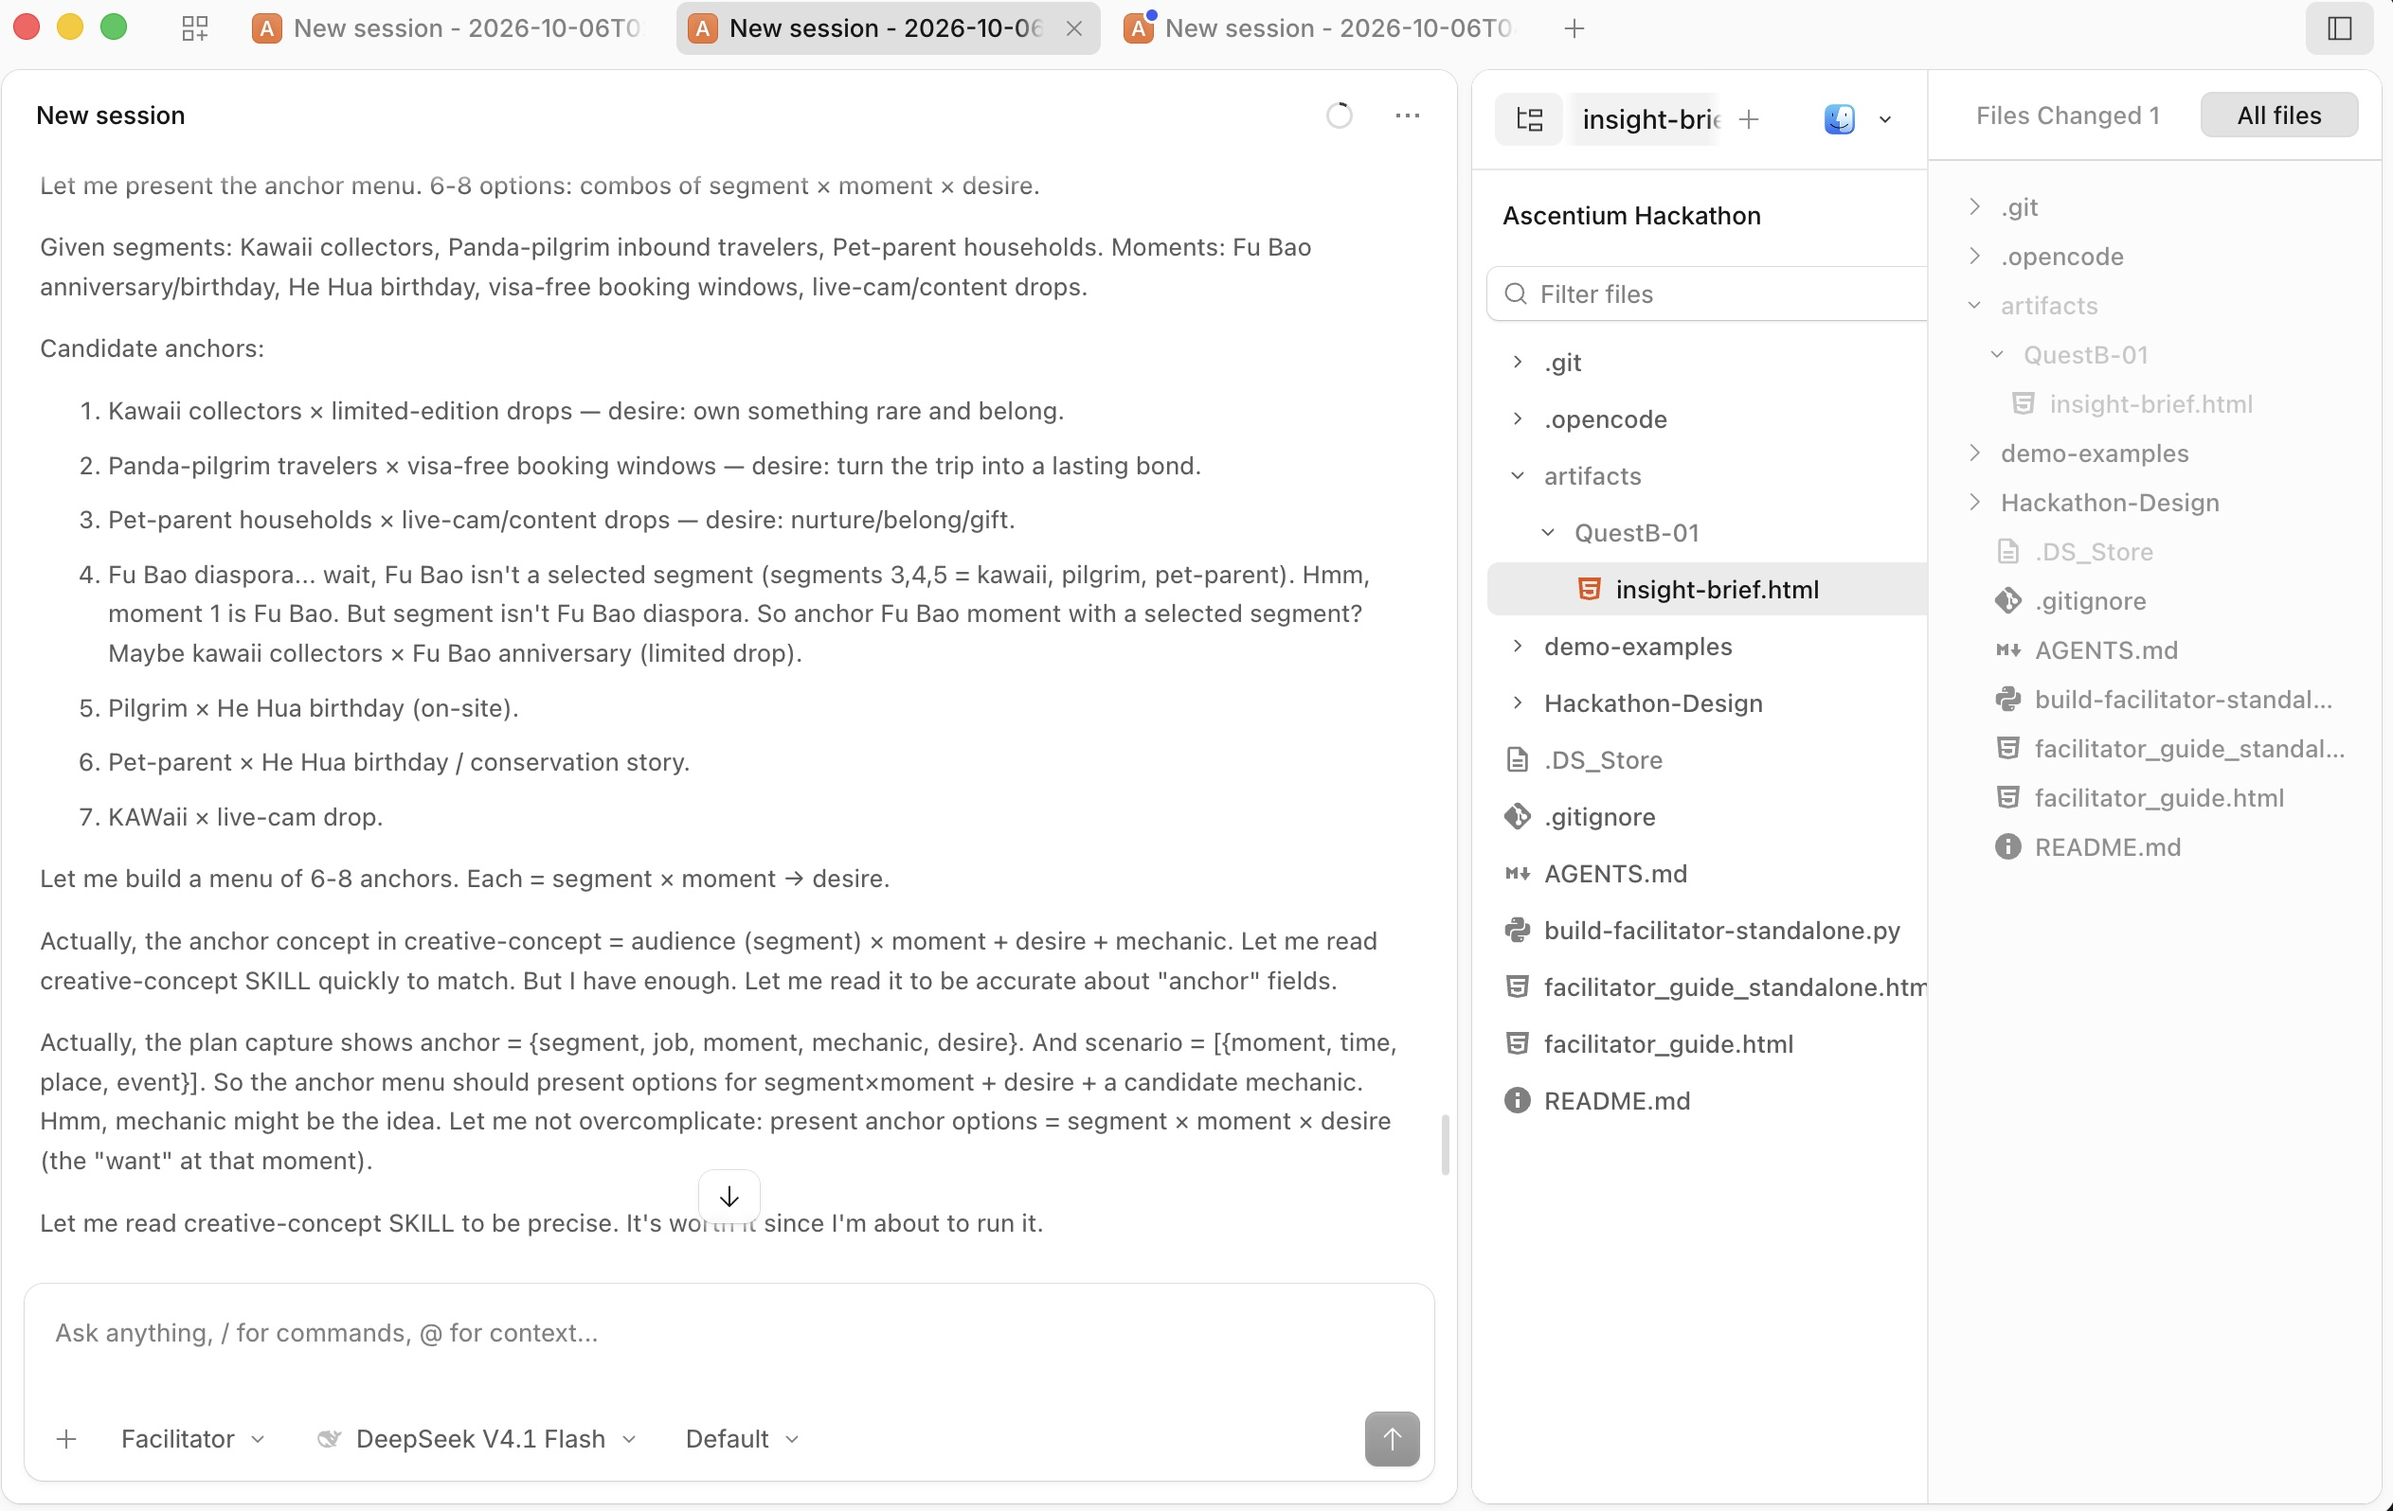
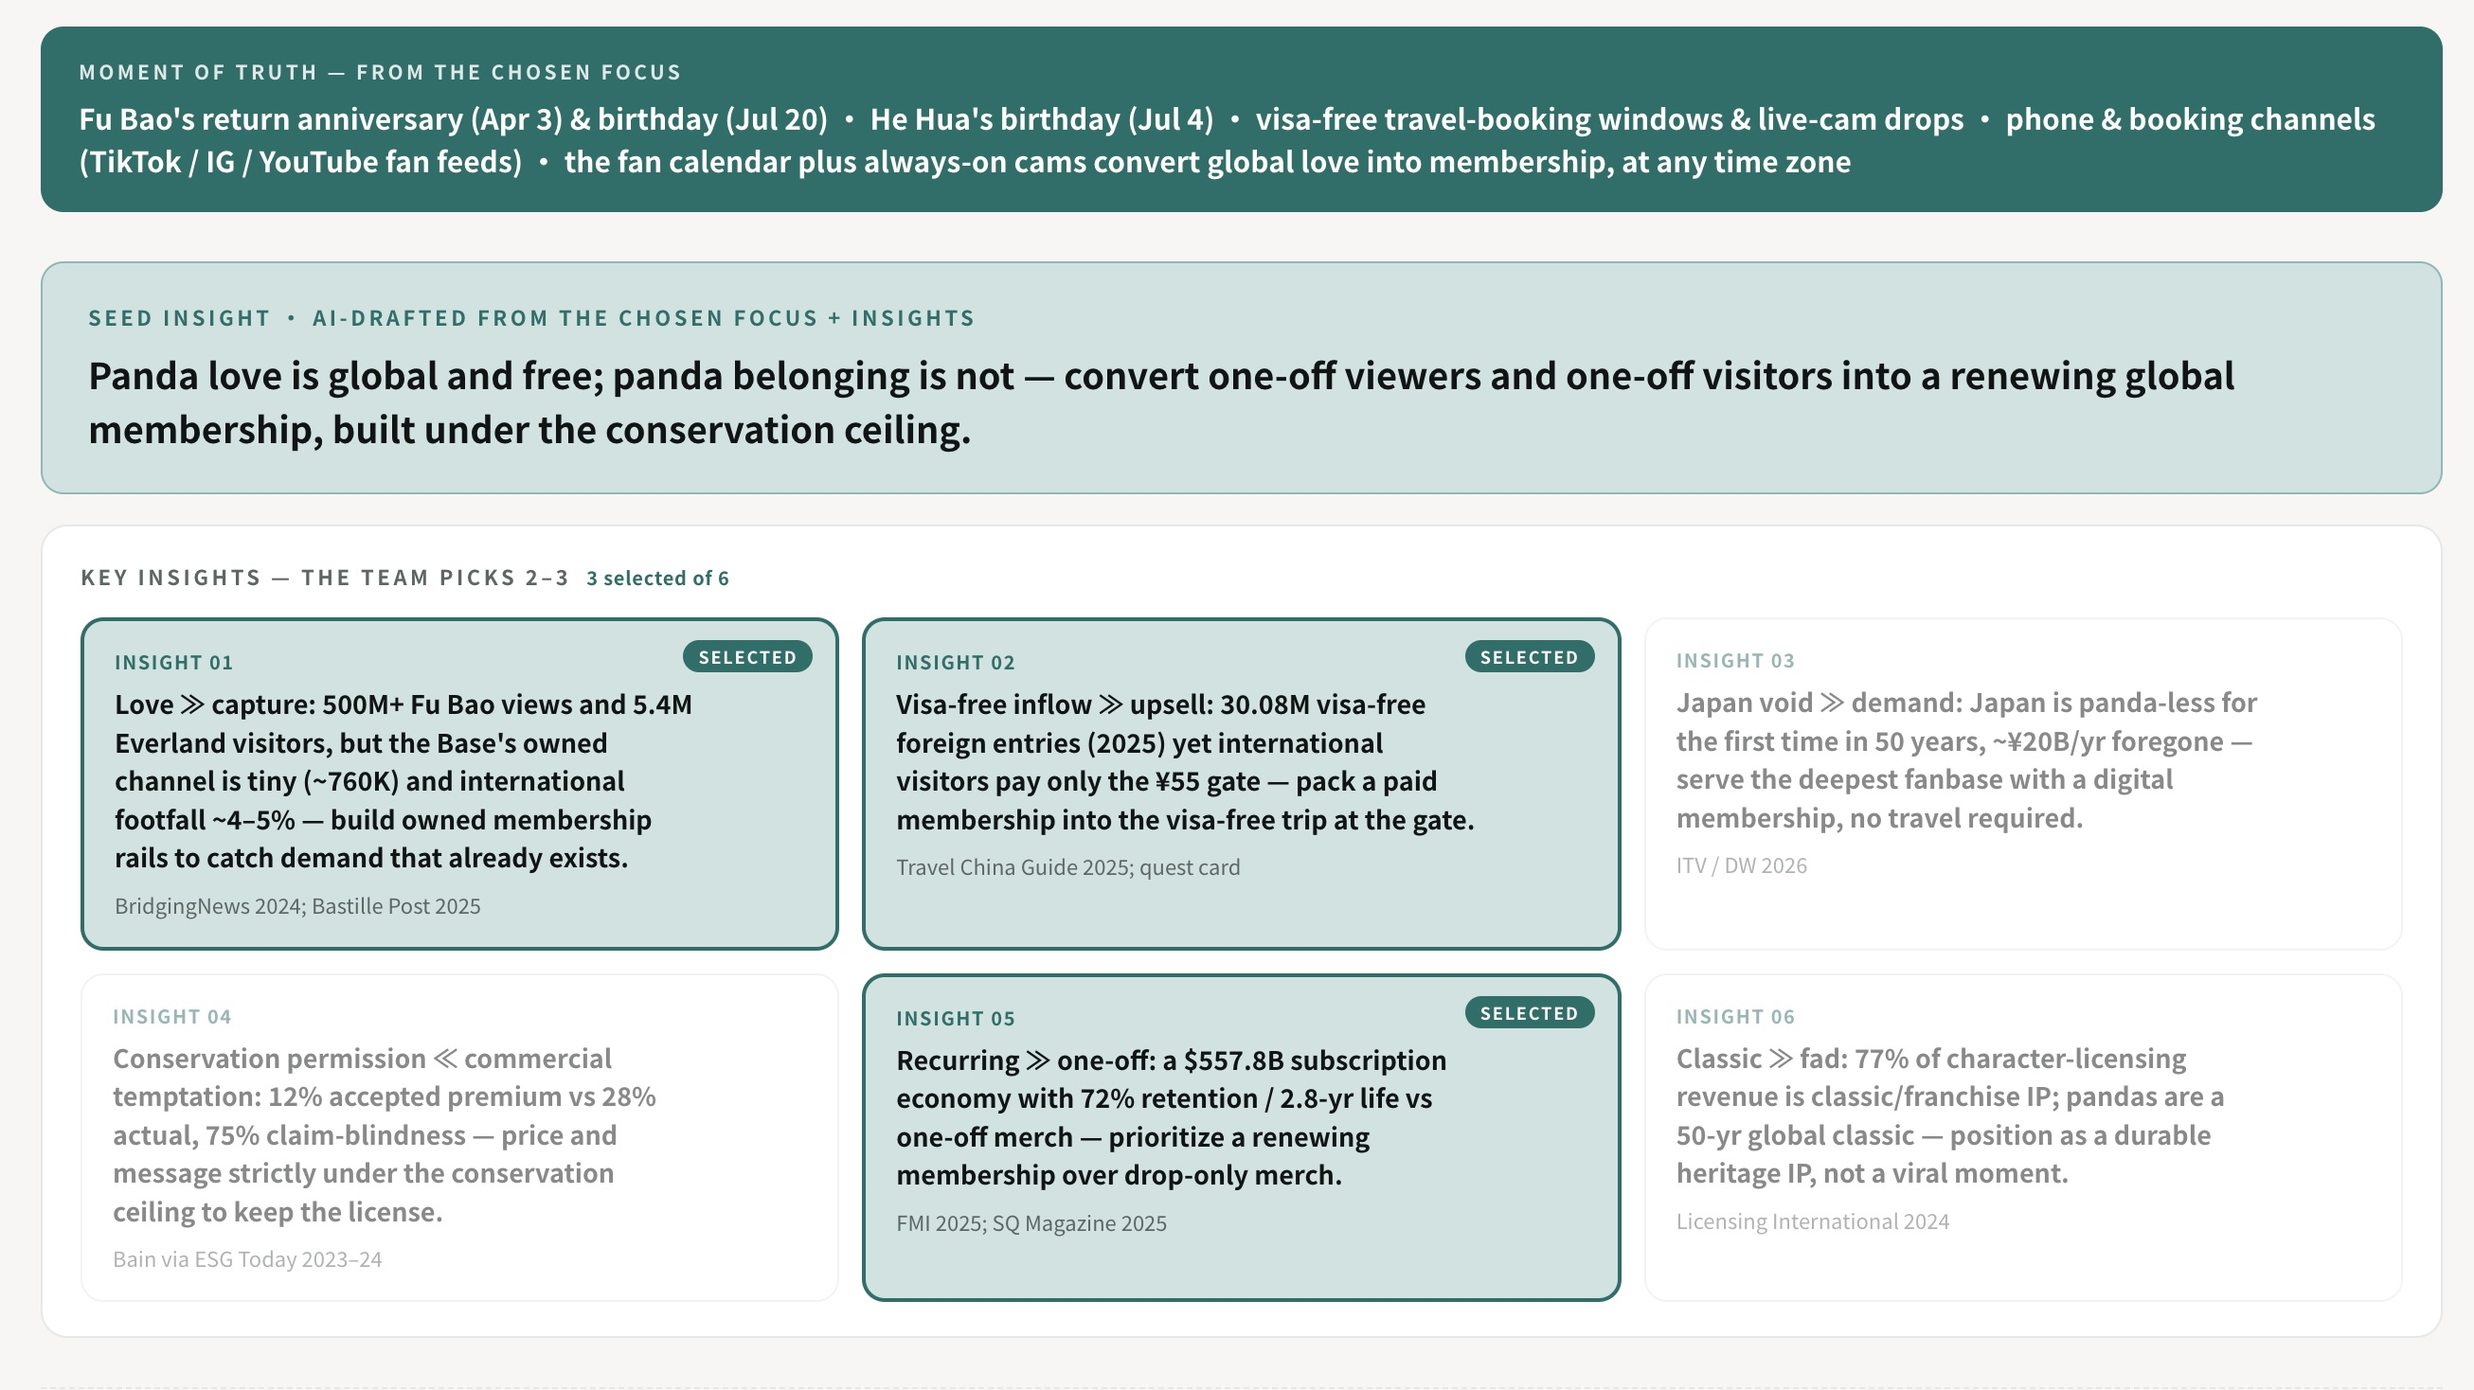
update video assets

diff --git a/Hackathon-Design/hostdeck/toolkit-video-scripts.md b/Hackathon-Design/hostdeck/toolkit-video-scripts.md
@@ -143,16 +143,16 @@ the engine shows the slot's placeholder label so the deck still runs.
 | IMG-01 | S2 | OpenCode workspace with a command being typed | screenshot | NEW | 1800×1000 | `img-01.jpg` |
 | IMG-02 | S2 | The command list / palette (8 commands) | screenshot | NEW | 1800×1000 | `img-02.jpg` |
 | IMG-03 | S3 | 5-stage loop diagram with the HITL gate per stage | diagram | REUSE (deck flow at `host-deck.html` L517–569) | 1800×1000 | `img-03.jpg` |
-| IMG-04 | S4 | `/start Quest A` running + first grounded menu | screenshot | NEW | 1800×1000 | `img-04.jpg` |
-| IMG-04 | S4 | `continue with research` running + first grounded menu | screenshot | NEW | 1800×1000 | `img-04-02.jpg` |
-| IMG-05 | S5 | `/insight` running + skill callout | screenshot | NEW | 1800×1000 | `img-05.jpg` |
-| IMG-06 | S5 | `insight-brief.html` result | screenshot | NEW | 1800×1000 | `img-06.png` |
-| IMG-07 | S6 | `/plan` running + skill callout | screenshot | NEW | 1800×1000 | `img-07-plan-cmd.png` |
-| IMG-08 | S6 | `campaign-plan.html` (A/B) result | screenshot | NEW | 1800×1000 | `img-08-campaign-plan.png` |
-| IMG-09 | S6 | `poster.html` hero result | screenshot | NEW | 1400×1000 | `img-09-poster.png` |
-| IMG-10 | S7 | `/prove` running + `proof.html` result | screenshot | NEW | 1800×1000 | `img-10-proof.png` |
-| IMG-11 | S8 | `/showcase` running + `proposal.html` / `pitch-deck.html` | screenshot | NEW | 1800×1000 | `img-11-showcase.png` |
-| IMG-12 | S10 | A Facilitator beside a guild | photo | NEW (or reuse a team/venue shot) | 1400×1000 | `img-12-facilitator.png` |
+| IMG-04 | S4 | `/start Quest B Panda-base` running + first grounded menu | screenshot | NEW | 1800×1000 | `img-04.jpg` |
+| IMG-04 | S4 | `continue with research` running + first grounded menu | screenshot | NEW | 1800×1000 | `img-05.jpg` |
+| IMG-05 | S5 | `review insight brief & choose insights direction` running + skill callout | screenshot | NEW | 1800×1000 | `img-05.jpg` |
+| IMG-06 | S5 | `insight-brief.html` result | screenshot | NEW | 1800×1000 | `img-07.jpg` |
+| IMG-07 | S6 | `design campaing plan` running + skill callout | screenshot | NEW | 1800×1000 | `img-08.jpg` |
+| IMG-08 | S6 | `campaign-plan.html` (A/B) result | screenshot | NEW | 1800×1000 | `img-09.jpg` |
+| IMG-09 | S6 | `poster.html` hero result | screenshot | NEW | 1400×1000 | `img-10.jpg` |
+| IMG-10 | S7 | `/prove` running + `proof.html` result | screenshot | NEW | 1800×1000 | `img-11.jpg` |
+| IMG-11 | S8 | `/showcase` running + `proposal.html` / `pitch-deck.html` | screenshot | NEW | 1800×1000 | `img-12.jpg` |
+| IMG-12 | S10 | review final package | 1400×1000 | `img-13.jpg` |
 
 **Reused, no file needed:** Ascentium logo (already inline in the deck) and `hero.png`
 (already in `Hackathon-Design/assets/`).
